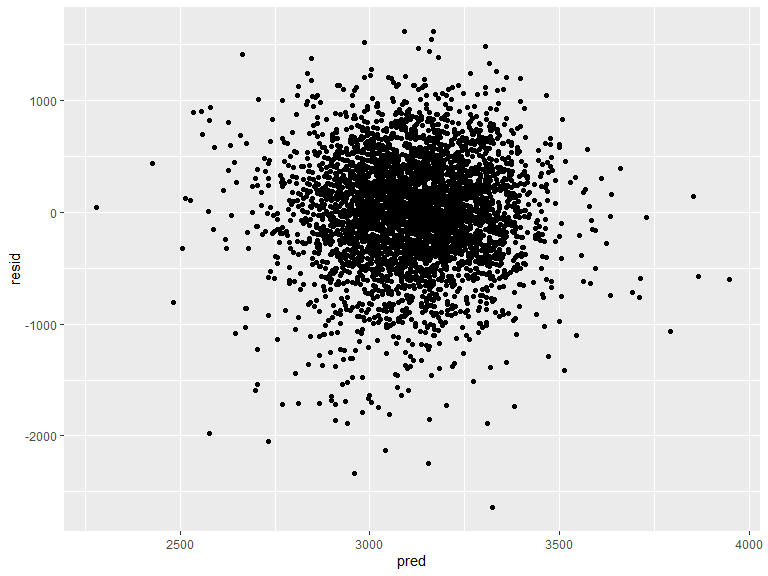
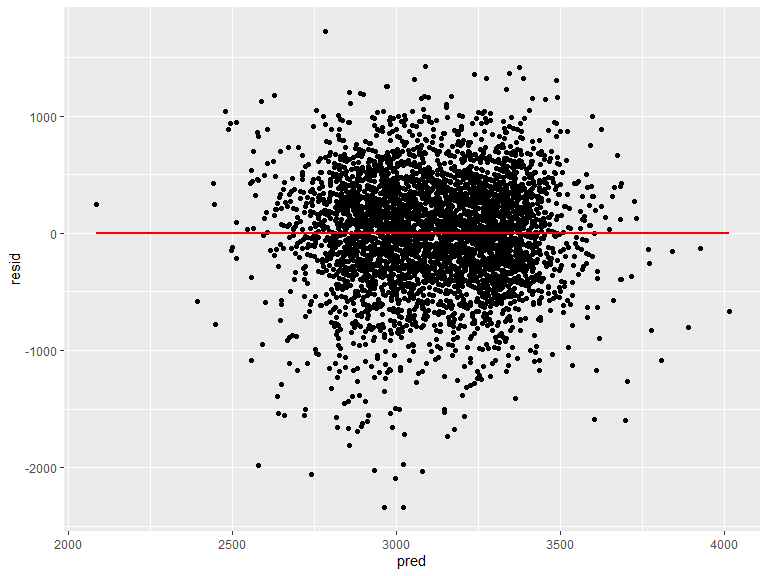
Fixing formatting

diff --git a/p8105_hw6_qra2000.md b/p8105_hw6_qra2000.md
@@ -51,13 +51,8 @@ weather_lm = weather_df |> lm(btw ~ tmax * tmin * prcp, data = weather_df)
 
 ## Problem 3
 
-For this problem, we analyze data which consists of roughly 4000
-children to understand the effects of several variables on a child’s
-birthweight.
-
 First, we load and clean the data for regression analysis and convert
-the `babysex`, `frace`, and `mrace` variables to factor variables. We
-also check for missing values.
+the `babysex`, `frace`, and `mrace` variables to factor variables.
 
 ``` r
 bwt_df = read.csv("./data/birthweight.csv") |> 
@@ -75,56 +70,49 @@ bwt_df = read.csv("./data/birthweight.csv") |>
                                 mrace == 3 ~ "Asian",
                                 mrace == 4 ~ "Puerto Rican",
                                 mrace == 8 ~ "Other")))
-
-sapply(bwt_df, function(x) sum(is.na(x)))
 ```
-
-    ##  babysex    bhead  blength      bwt    delwt  fincome    frace  gaweeks 
-    ##        0        0        0        0        0        0        0        0 
-    ##  malform menarche  mheight   momage    mrace   parity  pnumlbw  pnumsga 
-    ##        0        0        0        0        0        0        0        0 
-    ##    ppbmi     ppwt   smoken   wtgain 
-    ##        0        0        0        0
 
 Next, we propose a regression model based on a hypothesized structure
 for the factors that underly birthweight. My variables of interest are:
 family monthly income (in hundreds, rounded), average number of
-cigarettes smoked per day during pregnancy, and mother’s weight gain
-during pregnancy (pounds).
+cigarettes smoked per day during pregnancy, mother’s weight gain during
+pregnancy (pounds), and mother’s race.
 
 We fit the simple linear regression to the dataset, summarize model
 estimates, and plot the model residuals against fitted values.
 
 ``` r
-fit_1 = lm(bwt ~ fincome * smoken * wtgain, data = bwt_df)
+fit_1 = lm(bwt ~ fincome + smoken + wtgain + mrace, data = bwt_df)
 
 fit_1 |> broom::tidy() |> knitr::kable(digits = 3)
 ```
 
-| term                  | estimate | std.error | statistic | p.value |
-|:----------------------|---------:|----------:|----------:|--------:|
-| (Intercept)           | 2647.938 |    37.376 |    70.846 |   0.000 |
-| fincome               |    5.402 |     0.764 |     7.069 |   0.000 |
-| smoken                |   -5.100 |     4.720 |    -1.081 |   0.280 |
-| wtgain                |   15.080 |     1.534 |     9.827 |   0.000 |
-| fincome:smoken        |   -0.043 |     0.085 |    -0.508 |   0.611 |
-| fincome:wtgain        |   -0.080 |     0.032 |    -2.502 |   0.012 |
-| smoken:wtgain         |    0.115 |     0.186 |     0.616 |   0.538 |
-| fincome:smoken:wtgain |   -0.002 |     0.003 |    -0.537 |   0.591 |
+| term              | estimate | std.error | statistic | p.value |
+|:------------------|---------:|----------:|----------:|--------:|
+| (Intercept)       | 2862.820 |    73.499 |    38.950 |   0.000 |
+| fincome           |    0.884 |     0.297 |     2.979 |   0.003 |
+| smoken            |  -11.494 |     0.987 |   -11.650 |   0.000 |
+| wtgain            |   11.582 |     0.646 |    17.936 |   0.000 |
+| mraceBlack        | -171.461 |    71.805 |    -2.388 |   0.017 |
+| mracePuerto Rican |  -46.764 |    77.014 |    -0.607 |   0.544 |
+| mraceWhite        |  166.887 |    71.897 |     2.321 |   0.020 |
 
 ``` r
 bwt_df |> 
   add_predictions(fit_1) |> 
   add_residuals(fit_1) |> 
   ggplot(aes(x = pred, y = resid)) + 
-  geom_point()
+  geom_point() + 
+  geom_smooth(se = FALSE, method = "lm", color = "red")
 ```
+
+    ## `geom_smooth()` using formula = 'y ~ x'
 
 <img src="p8105_hw6_qra2000_files/figure-gfm/unnamed-chunk-4-1.png" width="90%" />
 
-The plot shows there is no linear relationship between the variables of
-interest, so linearity is not a reasonable hypothesis. There are many
-outliers.
+The plot shows there is a symmetric distribution above and below the
+line y = 0. This indicates that this is a normal distribution, so we
+proceed with the linear regression analysis.
 
 Next, we compare this model to two others: one using length at birth and
 gestational age as predictors, and one using head circumference, length,
